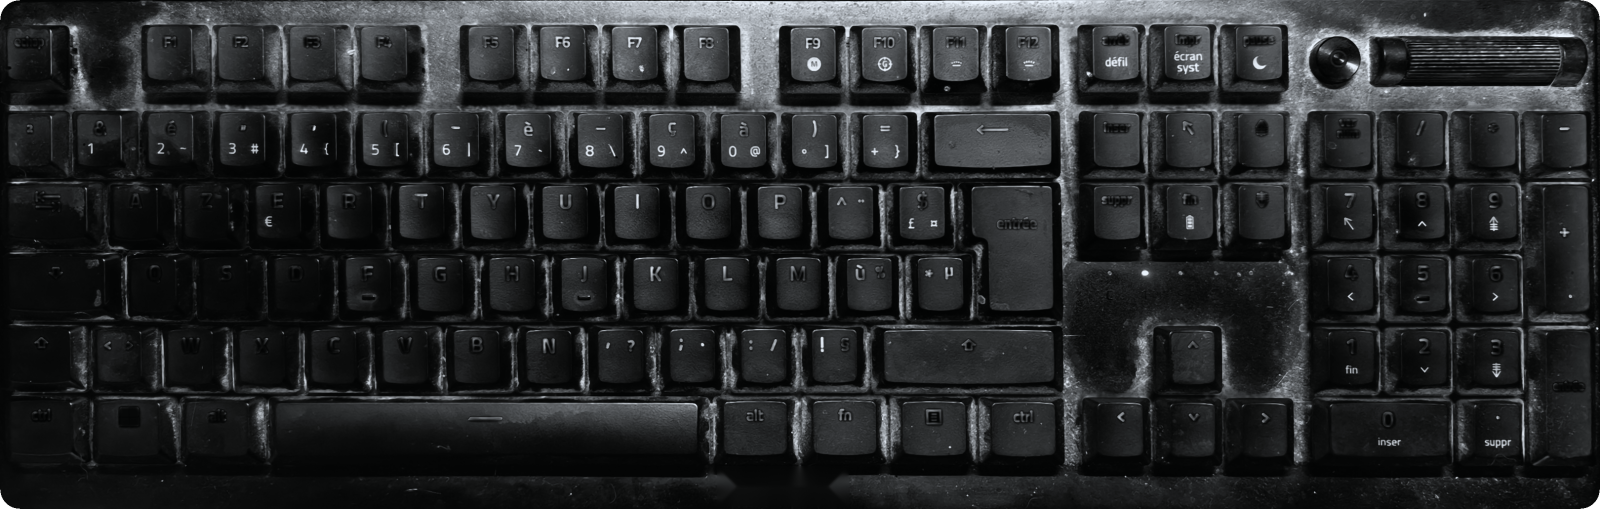
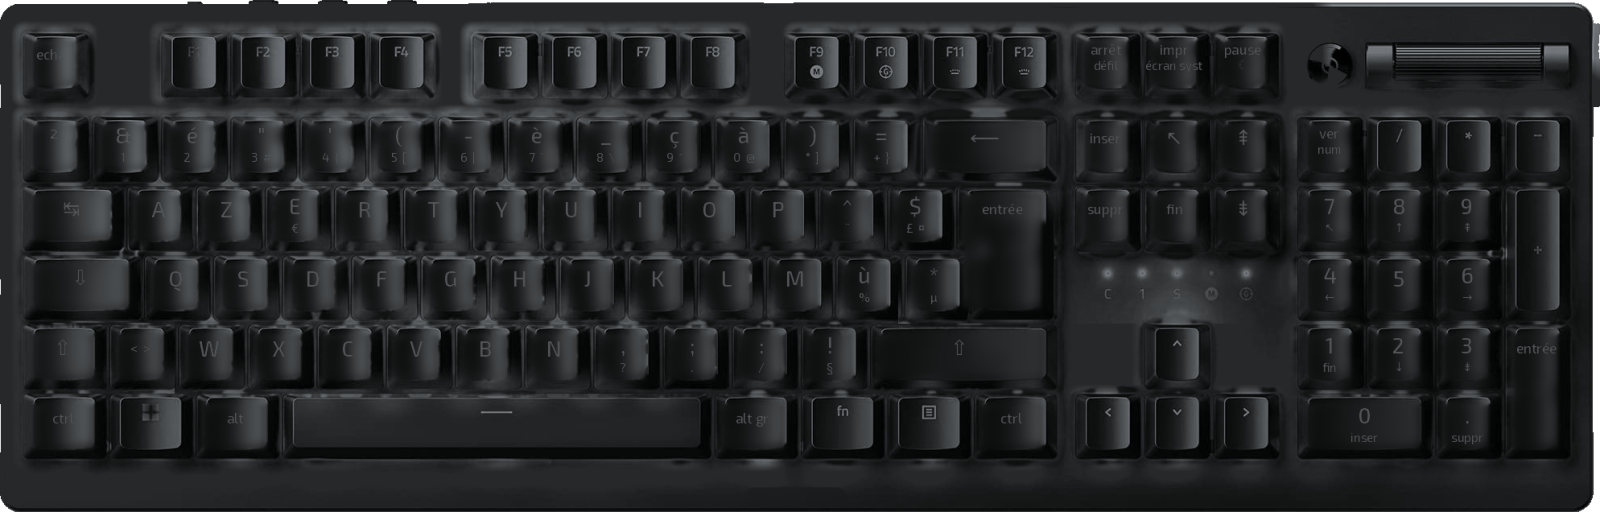
Aperçu clavier : image officielle convertie en ISO AZERTY
Entrée en L, touche < >, * µ, Maj gauche raccourcie, légendes françaises,
logo RazerLite à la place de celui de Razer. Le halo entre les touches
suit la couleur de la touche la plus proche (keyboard_labels.png).

Claude-Session: https://claude.ai/code/session_01Pjgbn9BSdC4yVwCKCBWxWb

diff --git a/tools/device_art/kb_off.py b/tools/device_art/kb_off.py
@@ -1,0 +1,188 @@
+"""Clavier : image produit officielle (QWERTY US) convertie en ISO AZERTY.
+
+Entrée en L, touche « * µ » ajoutée, Maj gauche raccourcie + touche « < > », toutes les légendes
+réécrites en français (sauf F1–F12, fn, Windows, menu, flèches, / * - + du pavé, identiques).
+"""
+import os, sys, json, cv2, numpy as np
+from PIL import Image, ImageDraw, ImageFont
+sys.path.insert(0, os.path.join(os.path.dirname(os.path.abspath(__file__)), "..", ".."))
+from razerlite.render import KEY_ROWS, TALL_KEYS
+S, OUT, FONT = sys.argv[1], sys.argv[2], sys.argv[3]
+img = cv2.imread(f"{S}/photos/keyboard_off.png")
+X0, U, GAP, CAP = 35.0, 85.65, 9, 78
+ROW_Y = [723, 827, 915, 1001, 1088, 1175]
+ux = lambda a: int(round(X0 + a * U))
+
+# --- 1. légendes US effacées, puis géométrie ISO ----------------------------------------
+def rects(rows, tall=(), wide=None):
+    out = []
+    for ri, row in enumerate(rows):
+        x = 0.0
+        for ci, (label, width) in enumerate(row):
+            if label is not None:
+                a = FN_X.get(ci, x) if ri == 0 else x
+                bottom = ROW_Y[ri + 1] + CAP if (ri, ci) in tall else ROW_Y[ri] + CAP
+                left_x = ux(wide[1]) if wide and (ri, ci) == wide[0] else ux(a)
+                out.append([left_x, ROW_Y[ri], ux(a + width) - GAP, bottom])
+            x += width
+    return out
+
+FN_X = {0: 0, 2: 2, 3: 3, 4: 4, 5: 5, 7: 6.5, 8: 7.5, 9: 8.5, 10: 9.5, 12: 11.18, 13: 12.18, 14: 13.18, 15: 14.18}
+ANSI = [list(r) for r in KEY_ROWS]
+ANSI[2] = ANSI[2][:13] + [("\\", 1.5)] + ANSI[2][15:]
+ANSI[3] = ANSI[3][:12] + [("enter", 2.25)] + ANSI[3][14:]
+ANSI[4] = [("shift", 2.25)] + ANSI[4][2:]
+ANSI_TALL = {(2, 22), (4, 20)}
+
+# --- 2. touches ISO (rectangles) ------------------------------------------------------
+keys = rects(KEY_ROWS, TALL_KEYS, ((2, 14), 13.5))
+
+# --- 3. légendes françaises --------------------------------------------------------------
+K = "keep"
+LEG = [
+    ("echap",), K, K, K, K, K, K, K, K, K, K, K, K, ("arrêt", "défil"), ("impr", "écran syst"), ("pause", "☾"),
+    ("²",), ("&", "1"), ("é", "2  ~"), ('"', "3  #"), ("'", "4  {"), ("(", "5  ["), ("-", "6  |"), ("è", "7  `"),
+    ("_", "8  \\"), ("ç", "9  ^"), ("à", "0  @"), (")", "°  ]"), ("=", "+  }"), ("⟵",), ("inser",), ("↖",), ("⇞",),
+    ("ver", "num"), K, K, K,
+    ("↹",), ("A",), ("Z",), ("E", "€"), ("R",), ("T",), ("Y",), ("U",), ("I",), ("O",), ("P",), ("^", "¨"),
+    ("$", "£  ¤"), ("entrée",), ("suppr",), ("fin",), ("⇟",), ("7", "↖"), ("8", "↑"), ("9", "⇞"), K,
+    ("⇩",), ("Q",), ("S",), ("D",), ("F",), ("G",), ("H",), ("J",), ("K",), ("L",), ("M",), ("ù", "%"), ("*", "µ"),
+    ("4", "←"), ("5",), ("6", "→"),
+    ("⇧",), ("<  >",), ("W",), ("X",), ("C",), ("V",), ("B",), ("N",), (",", "?"), (";", "."), (":", "/"),
+    ("!", "§"), ("⇧",), K, ("1", "fin"), ("2", "↓"), ("3", "⇟"), ("entrée",),
+    ("ctrl",), K, ("alt",), K, ("alt gr",), K, K, ("ctrl",), K, K, K, ("0", "inser"), (".", "suppr"),
+]
+assert len(LEG) == len(keys), (len(LEG), len(keys))
+
+# légende = trait fin et clair sur la face de la touche (le haut-de-forme le repère sans toucher aux reflets)
+v = img.max(2)
+hat = cv2.morphologyEx(v, cv2.MORPH_TOPHAT, cv2.getStructuringElement(cv2.MORPH_ELLIPSE, (13, 13)))
+erase = np.zeros(v.shape, np.uint8)
+keep = {tuple(r) for r, leg in zip(keys, LEG) if leg == K}
+for x0, y0, x1, y1 in rects(ANSI, ANSI_TALL):
+    if (x1 - x0) > 5 * U or (x0, y0, x1, y1) in keep:  # barre d'espace : rien à effacer
+        continue
+    fy0, fy1, fx0, fx1 = y0 + 9, (y1 if y1 - y0 > CAP * 1.5 else y0 + CAP) - 12, x0 + 11, x1 - 9
+    erase[fy0:fy1, fx0:fx1] = np.where(hat[fy0:fy1, fx0:fx1] > 13, 255, 0)
+erase = cv2.dilate(erase, np.ones((5, 5), np.uint8))
+img = cv2.inpaint(img, erase, 3, cv2.INPAINT_TELEA)
+src = img.copy()
+
+def stretch(tile, width, m=26):
+    """Agrandit ou rétrécit une touche en largeur sans déformer ses bords (découpe en 3)."""
+    mid = cv2.resize(tile[:, m:-m], (width - 2 * m, tile.shape[0]), interpolation=cv2.INTER_AREA)
+    return np.concatenate([tile[:, :m], mid, tile[:, -m:]], axis=1)
+
+def put(tile, x, y, mask=None):
+    h, w = tile.shape[:2]
+    if mask is None:
+        img[y:y + h, x:x + w] = tile
+    else:
+        a = mask[..., None]
+        img[y:y + h, x:x + w] = (tile * a + img[y:y + h, x:x + w] * (1 - a)).astype(np.uint8)
+
+M = 5  # marge autour du capuchon (halo de lumière)
+def tile_at(a0, a1, r0, r1=None, x0=None):
+    r1 = r0 if r1 is None else r1
+    xs = ux(a0) if x0 is None else x0
+    return src[ROW_Y[r0] - M:ROW_Y[r1] + CAP + M, xs - M:ux(a1) - GAP + M].copy()
+
+# rangée 3 : « * µ » (copie de « ' » à 11,75 u) ; le reste devient le bas de l'entrée ISO
+put(tile_at(11.75, 12.75, 3), ux(12.75) - M, ROW_Y[3] - M)
+# entrée ISO : partie haute = touche « \ » (1,5 u) ; tige = entrée du pavé numérique élargie à 1,25 u
+upper = tile_at(13.5, 15, 2)
+stem = stretch(tile_at(21.5, 22.5, 4, 5), ux(15) - ux(13.75) - GAP + 2 * M)
+stem = stem[:ROW_Y[3] - ROW_Y[2] + CAP + 2 * M]  # même hauteur que deux rangées du bloc principal
+put(stem, ux(13.75) - M, ROW_Y[2] - M)
+h, w = upper.shape[:2]
+mk = np.zeros((h, w), np.float32)
+mk[:M + int(CAP * 0.55)] = 1                             # haut de la touche
+mk[:, :ux(13.75) - ux(13.5) + 24] = 1                    # avancée gauche, avec le coin intérieur du L
+mk = cv2.GaussianBlur(mk, (0, 0), 3)
+put(upper, ux(13.5) - M, ROW_Y[2] - M, mk)
+# rangée 4 : Maj 2,25 u -> Maj 1,25 u + « < > » (copie de « Z »)
+shift = tile_at(0, 2.25, 4)
+put(stretch(shift, ux(1.25) - GAP - ux(0) + 2 * M), ux(0) - M, ROW_Y[4] - M)
+put(tile_at(2.25, 3.25, 4), ux(1.25) - M, ROW_Y[4] - M)
+# logo « RAZER » du bas : effacé (le logo RazerLite est dessiné à sa place par l'appli)
+zone = np.zeros(img.shape[:2], np.uint8); zone[1270:1300, 925:1065] = 255
+img = cv2.inpaint(img, zone, 6, cv2.INPAINT_TELEA)
+
+
+b, g, r = [c.astype(np.float32) for c in cv2.split(img)]
+v = np.maximum(np.maximum(r, g), b); mn = np.minimum(np.minimum(r, g), b)
+light = np.clip(np.maximum((v - mn) * 1.5, (v - 110) * 1.3), 0, 255)
+lab_src = np.zeros(img.shape[:2], np.uint8)
+for i, (x0, y0, x1, y1) in enumerate(keys):
+    lab_src[y0:y1, x0:x1] = i + 1
+dist, near = cv2.distanceTransformWithLabels((lab_src == 0).astype(np.uint8), cv2.DIST_L2, 5, labelType=cv2.DIST_LABEL_PIXEL)
+seed = np.zeros(near.max() + 1, np.uint8)
+seed[near[lab_src > 0]] = lab_src[lab_src > 0]
+gray = cv2.cvtColor(img, cv2.COLOR_BGR2GRAY).astype(np.float32)
+lf = cv2.GaussianBlur(light, (0, 0), 1.0) / 255
+base = np.clip(gray * (1 - 0.88 * lf), 0, 255)
+# faces des touches lissées : plus de taches là où les anciennes légendes ont été effacées
+face = np.zeros(base.shape, np.float32)
+for (x0, y0, x1, y1), leg in zip(keys, LEG):
+    if leg != K and (x1 - x0) < 5 * U:
+        face[y0 + 10:(y1 if y1 - y0 > CAP * 1.5 else y0 + CAP) - 13, x0 + 12:x1 - 10] = 1
+face = cv2.GaussianBlur(face, (0, 0), 2.5)
+base = base * (1 - face) + cv2.GaussianBlur(base, (0, 0), 7) * face
+# plaque autour des touches : le reflet de l'éclairage d'origine est ramené au noir mat (sans touches éteintes grises)
+plate = np.clip((dist - 6) / 10, 0, 1) * np.clip((80 - dist) / 20, 0, 1)
+plate[ROW_Y[3] - 4:ROW_Y[4] - 4, ux(15.25):ux(18.25)] = 0  # voyants C 1 S M G
+base = base * (1 - plate) + np.minimum(base, 40) * plate
+
+light *= np.clip((50 - dist) / 25, 0, 1)  # la lumière s'éteint loin des touches
+
+# nouvelles légendes : masque de lumière (blanc) + trace sombre sur la base
+font_main = ImageFont.truetype(FONT, 27); font_main.set_variation_by_name("Medium")
+font_word = ImageFont.truetype(FONT, 17); font_word.set_variation_by_name("Medium")
+font_sub = ImageFont.truetype(FONT, 15); font_sub.set_variation_by_name("Medium")
+sym = lambda size: ImageFont.truetype("/usr/share/fonts/truetype/dejavu/DejaVuSans.ttf", size)
+SYMBOLS = set("☾↹⇩⇧⟵↖⇞⇟←→↑↓")
+leg_img = Image.new("L", (img.shape[1], img.shape[0]), 0)
+d = ImageDraw.Draw(leg_img)
+def text(xy, s, f, fs):
+    if any(c in SYMBOLS for c in s):
+        f = sym(fs)
+    d.text(xy, s, font=f, fill=255, anchor="mm")
+for (x0, y0, x1, y1), leg in zip(keys, LEG):
+    if leg == K:
+        continue
+    cx = (x0 + x1) / 2
+    main = leg[0]
+    word = len(main) > 2 and not any(c in SYMBOLS for c in main)
+    if len(leg) == 1:
+        text((cx, y0 + 26), main, font_word if word else font_main, 18 if word else 26)
+    else:
+        text((cx, y0 + (20 if word else 22)), main, font_word if word else font_main, 18 if word else 24)
+        text((cx, y0 + (40 if word else 50)), leg[1], font_sub, 15)
+leg = np.array(leg_img).astype(np.float32)
+light = np.maximum(light, leg)
+base = np.where(leg > 0, np.maximum(base, leg / 255 * 85), base)
+base = np.clip(base, 0, 255).astype(np.uint8)
+
+# --- 4. détourage, échelle ---------------------------------------------------------------
+solid = (mn < 232).astype(np.uint8) * 255
+n, lab, st, _ = cv2.connectedComponentsWithStats(solid)
+big = 1 + np.argmax(st[1:, cv2.CC_STAT_AREA]); m = np.where(lab == big, 255, 0).astype(np.uint8)
+ff = m.copy(); hh, ww = m.shape; cv2.floodFill(ff, np.zeros((hh + 2, ww + 2), np.uint8), (0, 0), 255)
+m = m | cv2.bitwise_not(ff)
+ys, xs = np.nonzero(m); bx0, by0, bx1, by1 = xs.min(), ys.min(), xs.max() + 1, ys.max() + 1
+rgb = cv2.merge([np.clip(base * 1.04, 0, 255).astype(np.uint8), base, np.clip(base * 0.97, 0, 255).astype(np.uint8)])
+crop = lambda a: a[by0:by1, bx0:bx1]
+k = 1600 / (bx1 - bx0); size = (1600, round((by1 - by0) * k))
+rs = lambda a: cv2.resize(a, size, interpolation=cv2.INTER_AREA)
+cv2.imwrite(f"{OUT}/keyboard.png", cv2.merge([*cv2.split(rs(crop(rgb))), rs(crop(m))]))
+labels = np.where((dist < 60) & (m > 0), seed[near], 0).astype(np.uint8)
+cv2.imwrite(f"{OUT}/keyboard_labels.png", cv2.resize(crop(labels), size, interpolation=cv2.INTER_NEAREST))
+cv2.imwrite(f"{OUT}/keyboard_light.png", rs(crop(np.clip(light, 0, 255).astype(np.uint8))))
+json.dump({"size": list(size),
+           "keys": [[round((x0 - bx0) * k, 1), round((y0 - by0) * k, 1), round((x1 - bx0) * k, 1), round((y1 - by0) * k, 1)]
+                    for x0, y0, x1, y1 in keys],
+           "logo": [round((995 - bx0) * k), round((1285 - by0) * k), round(12 * k)]},
+          open(f"{OUT}/keyboard.json", "w"))
+vis = cv2.cvtColor(crop(rgb), cv2.COLOR_BGR2RGB)
+cv2.imwrite(f"{S}/proc/kb_off_base.png", crop(rgb))
+print(size)

diff --git a/razerlite/render.py b/razerlite/render.py
@@ -680,11 +680,18 @@ def render_keyboard_photo(w, h):
     base.alpha_composite(shape)
     light = _place(Image.open(os.path.join(DEVICE_ART, "keyboard_light.png")).convert("L"), size, off, canvas)
     keys = [(off[0] + x0 * k, off[1] + y0 * k, off[0] + x1 * k, off[1] + y1 * k) for x0, y0, x1, y1 in meta["keys"]]
-    labels = Image.new("P", canvas, 0)
-    d = ImageDraw.Draw(labels)
-    grow = 0.13 * (keys[1][0] - keys[0][0]) / 2  # moitié de l'interstice entre touches
-    for i, (x0, y0, x1, y1) in enumerate(keys):
-        d.rectangle((x0 - grow, y0 - grow, x1 + grow, y1 + grow * 2), fill=i + 1)
+    label_path = os.path.join(DEVICE_ART, "keyboard_labels.png")
+    if os.path.exists(label_path):
+        # chaque pixel appartient à la touche la plus proche : le halo entre les touches suit leur couleur
+        src = Image.open(label_path).convert("L").resize(size, Image.NEAREST)
+        labels = Image.new("P", canvas, 0)
+        labels.paste(Image.frombytes("P", src.size, src.tobytes()), (round(off[0]), round(off[1])))
+    else:
+        labels = Image.new("P", canvas, 0)
+        d = ImageDraw.Draw(labels)
+        grow = 0.13 * (keys[1][0] - keys[0][0]) / 2  # moitié de l'interstice entre touches
+        for i, (x0, y0, x1, y1) in enumerate(keys):
+            d.rectangle((x0 - grow, y0 - grow, x1 + grow, y1 + grow * 2), fill=i + 1)
     # logo RazerLite gravé sous la barre d'espace (à la place du logo Razer)
     from . import logo
     lx, ly, lh = meta["logo"]

diff --git a/tools/device_art/kb_art.py b/tools/device_art/kb_art.py
@@ -1,5 +1,5 @@
-import sys, json, cv2, numpy as np
-sys.path.insert(0, "/home/user/razerlite-windows-")
+import os, sys, json, cv2, numpy as np
+sys.path.insert(0, os.path.join(os.path.dirname(os.path.abspath(__file__)), "..", ".."))
 from razerlite.render import KEY_ROWS, TALL_KEYS
 S, OUT = sys.argv[1], sys.argv[2]
 img = cv2.imread(f"{S}/photos/keyboard.jpg")
